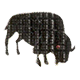
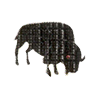
Údolí stínů: značka supa, býk Dodge City zvětšený na 100×100
Obě značky rozšíření jsou nově 100×100 (sup by se do 80×80 nevešel, býk
je zvětšený, aby obě vypadaly stejně). Převedené bezeztrátově na WebP,
VOS_MARK_READY = true. Kreslení se měnit nemuselo – značka se peče
v rozměru souboru × 0,5 s kotvou v pravém horním rohu.

Changed region(s): [[0.05, 0.125, 0.95, 0.85]]

diff --git a/core/valley.js b/core/valley.js
@@ -158,7 +158,7 @@ function vosReadyCards(data) {
 // Je dodaná značka rozšíření (symbol supa, assets/card_marks/udoli_stinu.webp)? Art
 // chodí průběžně (§2.14) – dokud soubor není, loader ho nestahuje (žádné 404) a karty
 // se pečou bez značky. Dodání = soubor do složky + tady `true`.
-const VOS_MARK_READY = false;
+const VOS_MARK_READY = true;
 
 // Leží před hráčem karta Duch? Stav Ducha se ODVOZUJE z karty na stole (R10), žádný
 // příznak – kartu umí sebrat deset různých cest a odvozený stav se nemůže rozejít.

diff --git a/game.js b/game.js
@@ -185,7 +185,8 @@ const MARK_LAYOUT = {
     valY: CARD_TEX_H * 0.96 + 12.5,
     suitY: CARD_TEX_H * 0.96 + 8,
     gap: CARD_TEX_W * 0.01,
-    // Symbol rozšíření (býk Dodge City) – pravý horní roh, kotva origin(1,0).
+    // Symbol rozšíření (býk Dodge City, sup Údolí stínů; soubor 100×100) – pravý horní roh,
+    // kotva origin(1,0).
     bullX: CARD_TEX_W * 0.97,
     bullY: CARD_TEX_H * 0.02,
     bullScale: CARD_TEX_W / 650

diff --git a/CLAUDE.md b/CLAUDE.md
@@ -775,8 +775,10 @@ a tabulka **`VOS_KINDS`** = co smí poručit Zuřivá Doroty a zopakovat Lee Van
 hlídá ji strukturální test), kostra časování [core/vosAnim.js](core/vosAnim.js).
 Do balíčku jdou jen hotové druhy a do ostré hry jen postavy z `VOS_READY` (postavy zatím
 tři z pěti, karty devět z patnácti). **Art všech 15 karet i 5 portrétů je dodaný**
-(`assets/card_art/udoli_stinu/*.webp`, `assets/characters/050–054.webp`); chybí jen
-**značka supa** (`assets/card_marks/udoli_stinu.webp`, dodání = soubor + `VOS_MARK_READY = true`).
+(`assets/card_art/udoli_stinu/*.webp`, `assets/characters/050–054.webp`) a s nimi
+**značka supa** (`assets/card_marks/udoli_stinu.webp`, `VOS_MARK_READY = true`). Značky rozšíření
+(býk i sup) mají **100×100 px** a pečou se v rozměru souboru × 0,5 (`MARK_LAYOUT.bullScale`, game.js),
+kotva pravý horní roh – jiný rozměr souboru = jiná velikost na kartě.
 Štítky zůstávají jako záloha: karta bez artu, ale s `text`, jde přes `paintCardLabel`,
 postava s `portrait: false` přes `buildPortraitLabels` (game.js).
 Testy: `test/vos.setup.test.js`, `test/vos.cards.test.js`, `test/vos.characters.test.js`,
